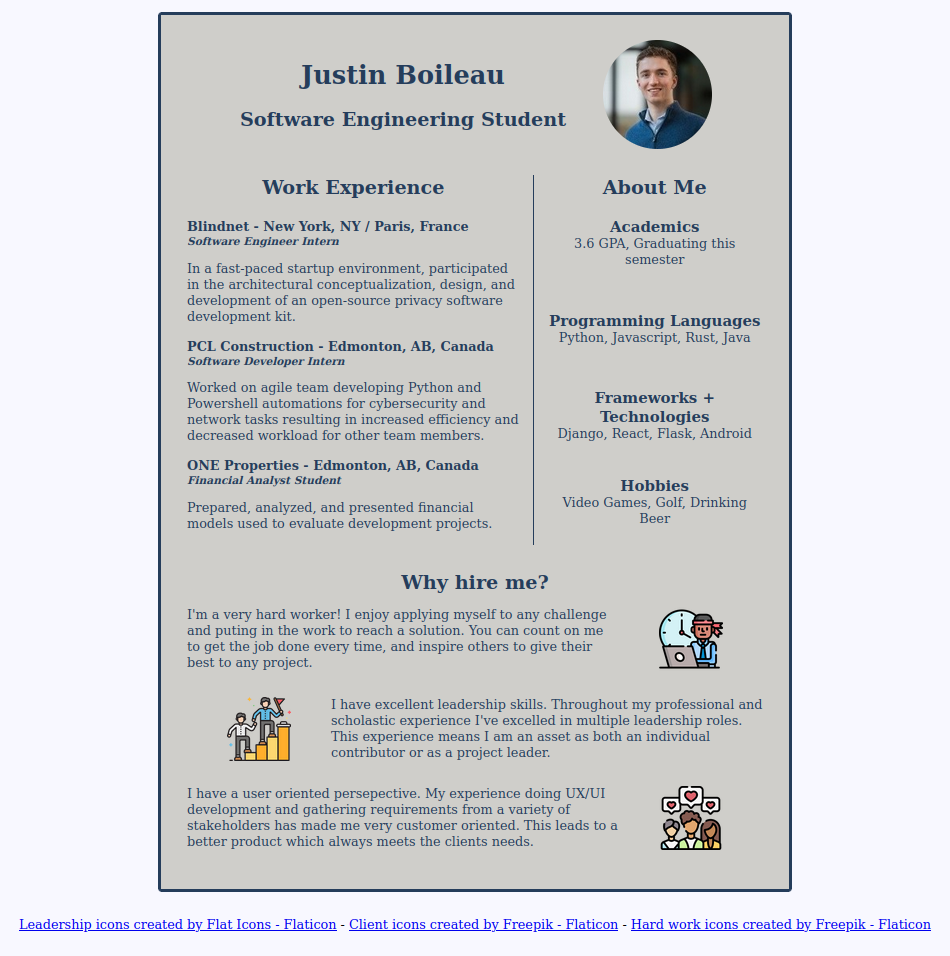
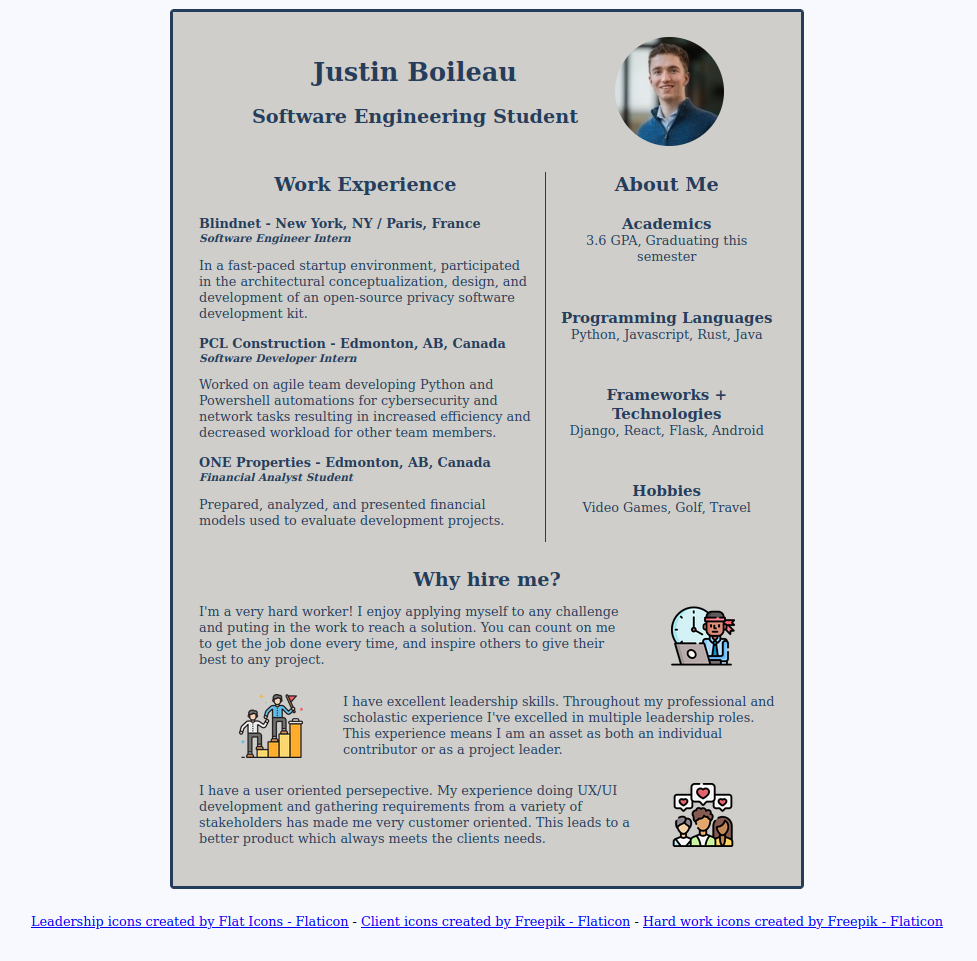
update

Changed region(s): [[0.0305, 0.0, 0.9768, 0.9707], [0.2442, 0.0607, 0.6105, 0.1517]]

diff --git a/homepage/good.html b/homepage/good.html
@@ -148,7 +148,7 @@
                 </div>
                 <div class="about-section">
                     <h3>Hobbies</h3>
-                    Video Games, Golf, Drinking Beer
+                    Video Games, Golf, Travel
                 </div>
             </div>
             <div id="why-hire">

diff --git a/homepage/ugly.html b/homepage/ugly.html
@@ -184,7 +184,7 @@
                 </div>
                 <div class="about-section">
                     <h3>Hobbies</h3>
-                    Video Games, Golf, Drinking Beer
+                    Video Games, Golf, Travel
                 </div>
             </div>
             <div id="why-hire">
